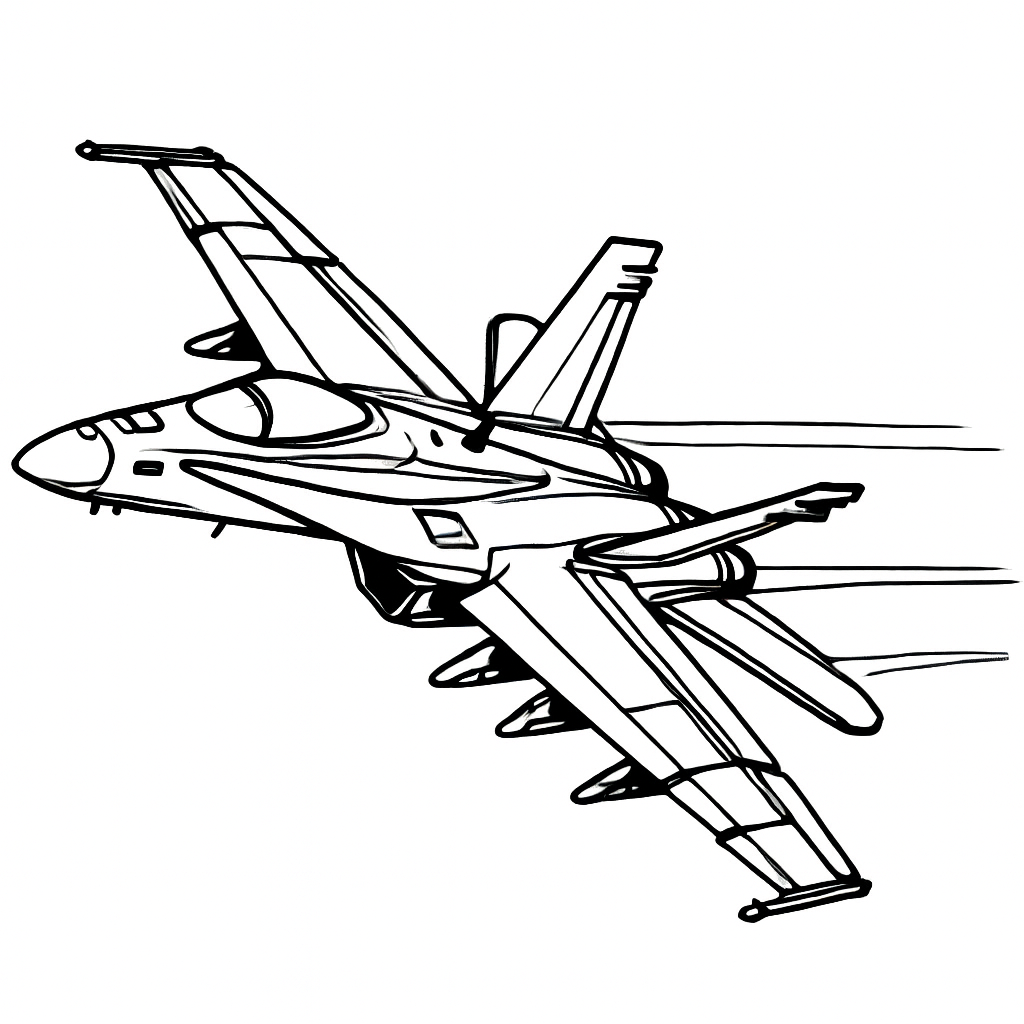
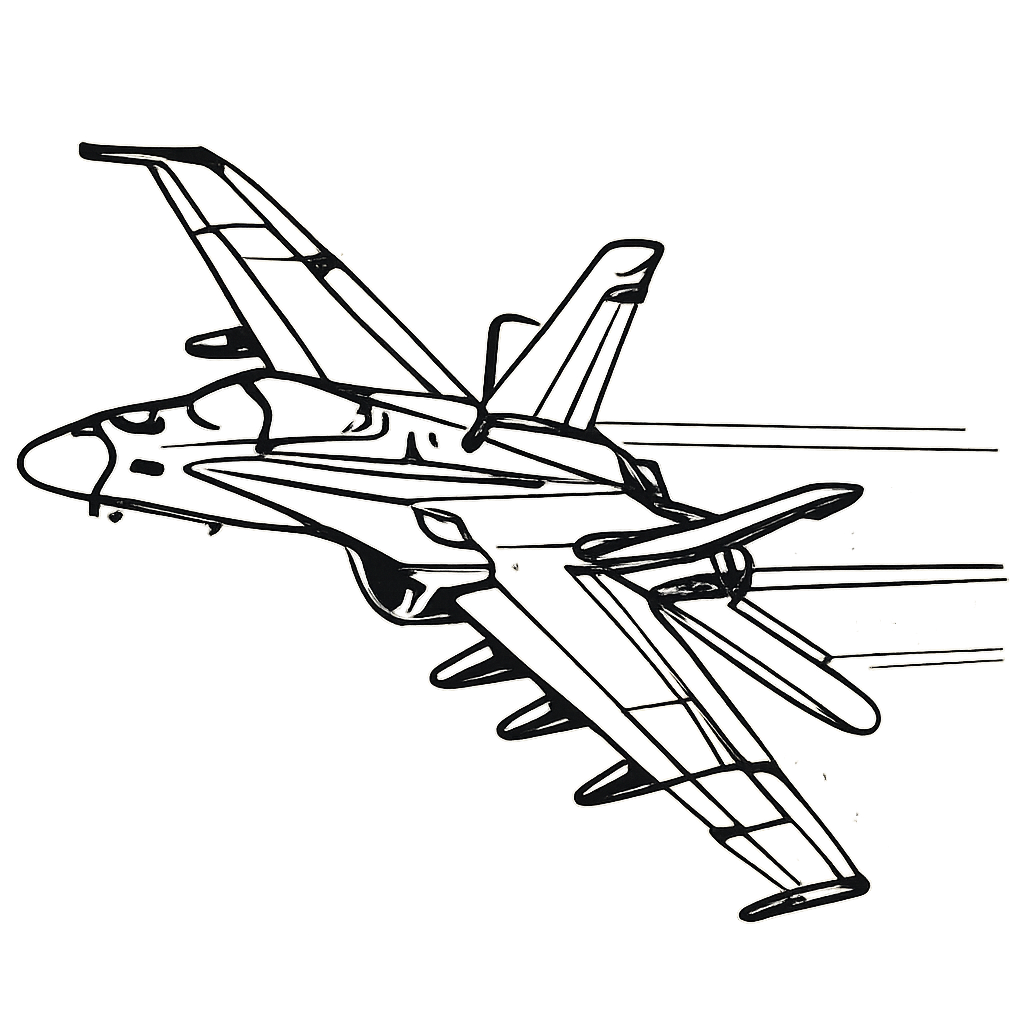
[PO-2][5/n] add circle to experience, update with cleaner hornet image

diff --git a/src/components/experience-component/ExperienceComponent.tsx b/src/components/experience-component/ExperienceComponent.tsx
@@ -74,8 +74,13 @@ const ExperienceComponent = () => {
   const education = Constants.EDUCATION_DATA;
 
   return (
-    <div className="w-full h-full min-h-screen flex flex-row items-center justify-center pt-48">
-      <div className="flex">
+    <div className="relative w-full h-full min-h-screen flex flex-row items-center justify-center pt-48">
+      {/* Green circle background */}
+      <div className="absolute inset-0 flex items-center justify-center pointer-events-none">
+        <div className="bg-[#dce2d5]/40 rounded-full aspect-square w-[40vh] -translate-x-24 -translate-y-48"></div>
+      </div>
+
+      <div className="relative z-10 flex">
         <Image
           src="/images/hornet-fine-line.png"
           alt="F/A-18 Hornet"
@@ -84,7 +89,7 @@ const ExperienceComponent = () => {
           className="pr-12 w-[50vh]"
         />
       </div>
-      <div className="flex flex-col">
+      <div className="relative z-10 flex flex-col">
         <h2 className="shrink-0 text-5xl font-semibold border-lime-600/30 border-b-4 w-fit">
           experience
         </h2>

diff --git a/src/components/about-me-component/AboutMeComponent.tsx b/src/components/about-me-component/AboutMeComponent.tsx
@@ -19,7 +19,7 @@ const AboutMeComponent = () => {
         transition={{ duration: 1 }}
         className="absolute inset-0"
         style={{
-          backgroundImage: `url(/images/flash.webp)`,
+          backgroundImage: `url(/images/flash_banner.png)`,
           backgroundSize: "cover",
           backgroundPosition: "center 80%",
           backgroundRepeat: "no-repeat",
